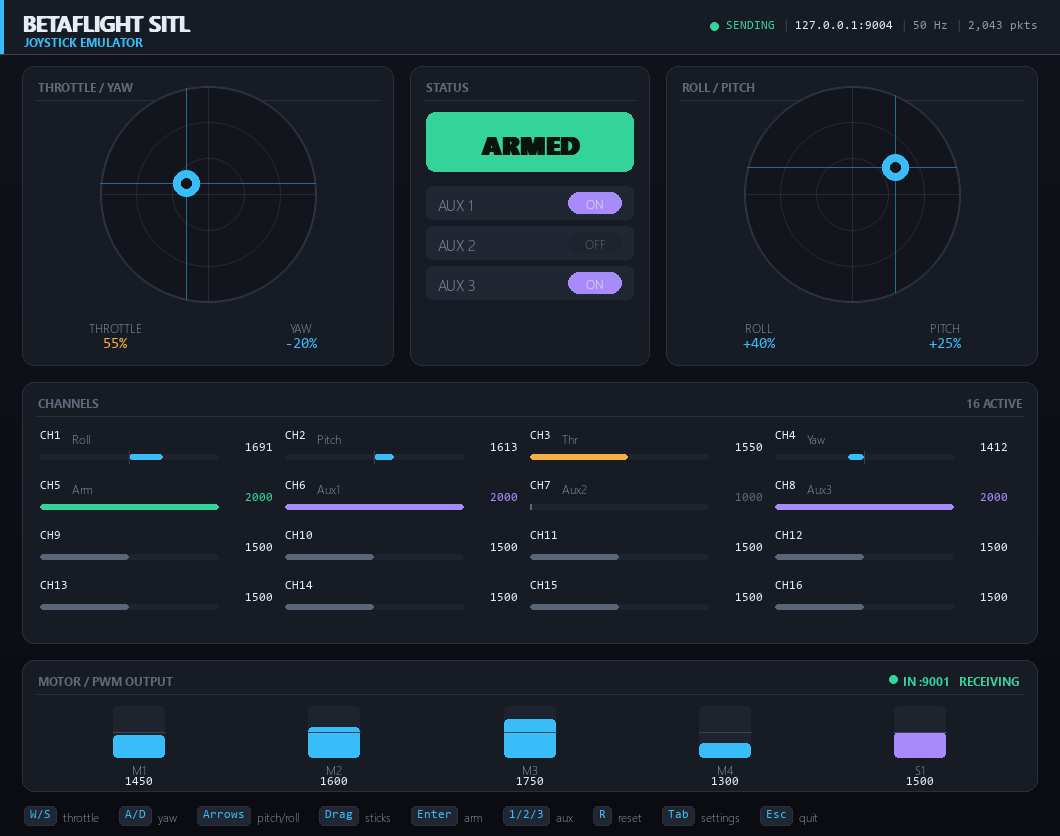
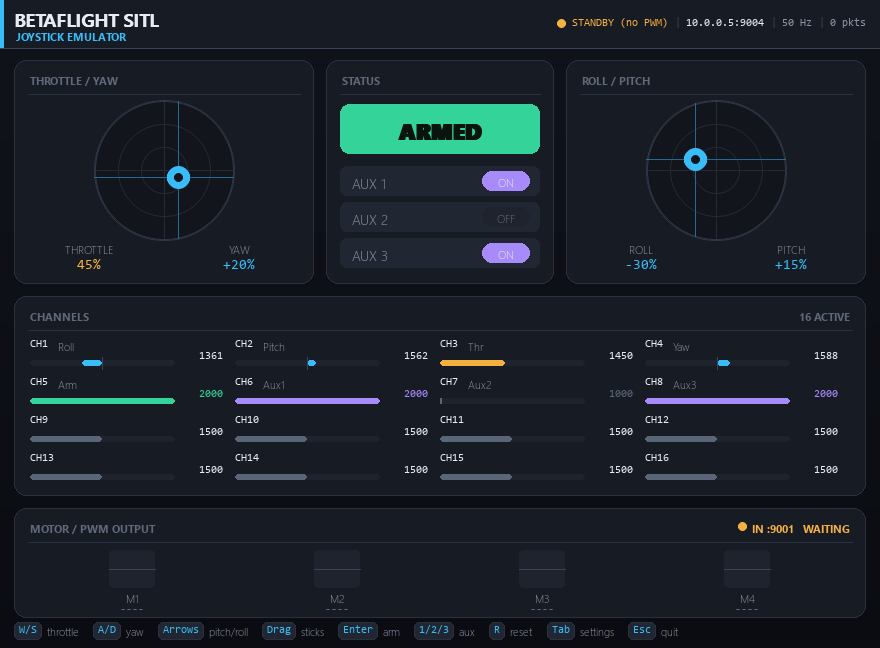
Shrink window/UI and fix settings save
- Compact 880x648 layout (was 1060x836) with re-tuned cards, gimbals,
  channels, motor bars, header, legend and settings panel
- Fix Ctrl+S save being swallowed by the 's' move-down binding; panel
  navigation now uses arrow keys, Ctrl+S saves, D resets defaults
- Rewrite config.json on load so every setting is persisted and older
  configs are migrated with newly added keys (values preserved)

diff --git a/joystick_emulator.py b/joystick_emulator.py
@@ -33,7 +33,7 @@ from pygame import gfxdraw
 CONFIG_FILENAME = "config.json"
 NUM_PACKET_CHANNELS = 16  # Betaflight SITL always reads a fixed 16-channel struct.
 
-WINDOW_W, WINDOW_H = 1060, 836
+WINDOW_W, WINDOW_H = 880, 648
 FPS_RENDER_CAP = 120  # Rendering may run faster than the RC send rate.
 
 # ---- Palette (modern dark "avionics" theme) ----
@@ -153,8 +153,9 @@ class Settings:
             except (OSError, ValueError, json.JSONDecodeError) as exc:
                 print(f"[settings] could not read {path}: {exc}; using defaults")
         s.clamp_all()
-        if not os.path.isfile(path):
-            s.save(path)
+        # Always (re)write the file so it contains every current setting,
+        # migrating older configs that predate newly added fields.
+        s.save(path)
         return s
 
     def save(self, path: str) -> bool:
@@ -607,14 +608,20 @@ class SettingsPanel:
         if event.type != pygame.KEYDOWN:
             return
 
-        if event.key in (pygame.K_UP, pygame.K_w):
+        ctrl = bool(mods & pygame.KMOD_CTRL)
+        # Check Ctrl+S first so it isn't swallowed by other bindings.
+        if ctrl and event.key == pygame.K_s:
+            self._save()
+            return
+
+        if event.key == pygame.K_UP:
             self._move(-1)
-        elif event.key in (pygame.K_DOWN, pygame.K_s):
+        elif event.key == pygame.K_DOWN:
             self._move(1)
-        elif event.key in (pygame.K_LEFT, pygame.K_a):
+        elif event.key == pygame.K_LEFT:
             step = field_obj.big_step if coarse else field_obj.step
             self._adjust(field_obj, -step)
-        elif event.key in (pygame.K_RIGHT, pygame.K_d):
+        elif event.key == pygame.K_RIGHT:
             step = field_obj.big_step if coarse else field_obj.step
             self._adjust(field_obj, step)
         elif event.key == pygame.K_RETURN:
@@ -623,14 +630,7 @@ class SettingsPanel:
             else:
                 self.editing = True
                 self.edit_buffer = str(getattr(self.settings, field_obj.attr))
-        elif event.key == pygame.K_s and (mods & pygame.KMOD_CTRL):
-            self._save()
-
-    def handle_command_key(self, key: int) -> None:
-        """Keys handled while the panel is open but not editing (S/D)."""
-        if self.editing:
-            return
-        if key == pygame.K_d:
+        elif event.key == pygame.K_d:
             self._reset_defaults()
 
     def _save(self) -> None:
@@ -674,35 +674,40 @@ class App:
         self.clock = pygame.time.Clock()
 
         # Typography: UI font for labels, mono font for numeric readouts.
-        self.font_title = _sysfont(["Segoe UI Semibold", "Segoe UI", "Arial"], 22, bold=True)
-        self.font_h = _sysfont(["Segoe UI", "Arial"], 12, bold=True)
-        self.font = _sysfont(["Segoe UI", "Arial"], 15)
-        self.font_small = _sysfont(["Segoe UI", "Arial"], 12)
-        self.font_mono = _sysfont(["Consolas", "Courier New"], 15)
-        self.font_mono_sm = _sysfont(["Consolas", "Courier New"], 12)
-        self.font_arm = _sysfont(["Segoe UI Black", "Segoe UI", "Arial"], 26, bold=True)
+        self.font_title = _sysfont(["Segoe UI Semibold", "Segoe UI", "Arial"], 19, bold=True)
+        self.font_h = _sysfont(["Segoe UI", "Arial"], 11, bold=True)
+        self.font = _sysfont(["Segoe UI", "Arial"], 14)
+        self.font_small = _sysfont(["Segoe UI", "Arial"], 11)
+        self.font_mono = _sysfont(["Consolas", "Courier New"], 14)
+        self.font_mono_sm = _sysfont(["Consolas", "Courier New"], 11)
+        self.font_arm = _sysfont(["Segoe UI Black", "Segoe UI", "Arial"], 22, bold=True)
 
         # Cached vertical-gradient background.
         self.bg = _make_gradient(WINDOW_W, WINDOW_H, COL_BG_TOP, COL_BG_BOT)
 
         # ---- Layout geometry ----
-        margin = 22
-        top = 66
-        card_w = 372
-        card_h = 300
+        margin = 14
+        gap = 12
+        top = 60
+        card_w = 300
+        card_h = 224
         self.left_card = pygame.Rect(margin, top, card_w, card_h)
         self.right_card = pygame.Rect(WINDOW_W - margin - card_w, top, card_w, card_h)
         self.center_card = pygame.Rect(
-            self.left_card.right + 16,
+            self.left_card.right + gap,
             top,
-            self.right_card.left - self.left_card.right - 32,
+            self.right_card.left - self.left_card.right - 2 * gap,
             card_h,
         )
-        self.chan_card = pygame.Rect(margin, top + card_h + 16, WINDOW_W - 2 * margin, 262)
-        self.motor_card = pygame.Rect(margin, self.chan_card.bottom + 16, WINDOW_W - 2 * margin, 132)
+        self.chan_card = pygame.Rect(
+            margin, self.left_card.bottom + gap, WINDOW_W - 2 * margin, 200
+        )
+        self.motor_card = pygame.Rect(
+            margin, self.chan_card.bottom + gap, WINDOW_W - 2 * margin, 110
+        )
 
-        self.gimbal_r = 108
-        gy = self.left_card.y + 128
+        self.gimbal_r = 70
+        gy = self.left_card.y + 110
         self.left_center = (self.left_card.centerx, gy)
         self.right_center = (self.right_card.centerx, gy)
 
@@ -737,14 +742,12 @@ class App:
                 return
 
             if self.panel_open:
-                if event.type == pygame.KEYDOWN and event.key in (
-                    pygame.K_TAB,
-                    pygame.K_ESCAPE,
+                if (
+                    event.type == pygame.KEYDOWN
+                    and not self.panel.editing
+                    and event.key in (pygame.K_TAB, pygame.K_ESCAPE)
                 ):
                     self.panel_open = False
-                    continue
-                if event.type == pygame.KEYDOWN and event.key == pygame.K_d and not self.panel.editing:
-                    self.panel.handle_command_key(event.key)
                     continue
                 self.panel.handle_event(event)
                 continue
@@ -906,12 +909,12 @@ class App:
 
     # ---- header ----
     def _draw_header(self) -> None:
-        bar = pygame.Rect(0, 0, WINDOW_W, 54)
+        bar = pygame.Rect(0, 0, WINDOW_W, 48)
         pygame.draw.rect(self.screen, COL_PANEL, bar)
-        pygame.draw.line(self.screen, COL_BORDER_HI, (0, 54), (WINDOW_W, 54), 1)
-        pygame.draw.rect(self.screen, COL_ACCENT, (0, 0, 4, 54))
-        self._text("BETAFLIGHT SITL", self.font_title, COL_TEXT, (22, 8))
-        self._text("JOYSTICK EMULATOR", self.font_h, COL_ACCENT, (24, 34))
+        pygame.draw.line(self.screen, COL_BORDER_HI, (0, 48), (WINDOW_W, 48), 1)
+        pygame.draw.rect(self.screen, COL_ACCENT, (0, 0, 4, 48))
+        self._text("BETAFLIGHT SITL", self.font_title, COL_TEXT, (14, 6))
+        self._text("JOYSTICK EMULATOR", self.font_h, COL_ACCENT, (16, 29))
 
         if self.sender.last_error is not None:
             status, dot_col = "SEND ERROR", COL_BAD
@@ -927,18 +930,18 @@ class App:
             (f"{self.settings.send_hz} Hz", COL_TEXT_DIM, False),
             (f"{self.sender.packets_sent:,} pkts", COL_TEXT_DIM, False),
         ]
-        x = WINDOW_W - 22
+        x = WINDOW_W - 14
         rev = list(reversed(segments))
         for idx, (text, color, dot) in enumerate(rev):
             r = self.font_mono_sm.render(text, True, color)
             x -= r.get_width()
-            self.screen.blit(r, (x, 20))
+            self.screen.blit(r, (x, 17))
             if dot:
-                _fill_circle(self.screen, x - 12, 26, 4, color)
-                x -= 22
-            if idx < len(rev) - 1:
+                _fill_circle(self.screen, x - 11, 23, 4, color)
                 x -= 20
-                self._text("|", self.font_mono_sm, COL_BORDER_HI, (x + 8, 20))
+            if idx < len(rev) - 1:
+                x -= 18
+                self._text("|", self.font_mono_sm, COL_BORDER_HI, (x + 7, 17))
 
     # ---- gimbals ----
     def _draw_gimbal_card(self, card: pygame.Rect, center, side: str) -> None:
@@ -951,7 +954,7 @@ class App:
         self._draw_gimbal(center, nx, ny, side)
 
         # Readout chips beneath the gimbal.
-        base_y = card.bottom - 46
+        base_y = card.bottom - 42
         q1 = card.x + card.w // 4
         q2 = card.x + 3 * card.w // 4
         if side == "left":
@@ -987,36 +990,36 @@ class App:
 
         grabbed = self.dragging == side
         kcol = COL_KNOB_GRAB if grabbed else COL_KNOB
-        _fill_circle(self.screen, kx, ky, 13, kcol)
-        _fill_circle(self.screen, kx, ky, 5, COL_GIMBAL)
+        _fill_circle(self.screen, kx, ky, 11, kcol)
+        _fill_circle(self.screen, kx, ky, 4, COL_GIMBAL)
 
     # ---- status / switches ----
     def _draw_status_card(self, card: pygame.Rect) -> None:
         self._panel(card, "Status")
-        inner_x = card.x + 16
-        inner_w = card.w - 32
+        inner_x = card.x + 14
+        inner_w = card.w - 28
 
         armed = self.state.armed
-        banner = pygame.Rect(inner_x, card.y + 46, inner_w, 60)
+        banner = pygame.Rect(inner_x, card.y + 44, inner_w, 50)
         if armed:
             pygame.draw.rect(self.screen, COL_GOOD, banner, border_radius=9)
-            self._text("ARMED", self.font_arm, (10, 20, 15), (banner.centerx, banner.y + 14), align="center")
+            self._text("ARMED", self.font_arm, (10, 20, 15), (banner.centerx, banner.y + 12), align="center")
         else:
             pygame.draw.rect(self.screen, COL_PANEL_LIGHT, banner, border_radius=9)
             pygame.draw.rect(self.screen, COL_BAD, banner, width=2, border_radius=9)
-            self._text("DISARMED", self.font_arm, COL_BAD, (banner.centerx, banner.y + 14), align="center")
+            self._text("DISARMED", self.font_arm, COL_BAD, (banner.centerx, banner.y + 12), align="center")
 
         # AUX toggle rows
-        ry = banner.bottom + 14
+        ry = banner.bottom + 12
         for i, on in enumerate(self.state.aux):
-            row = pygame.Rect(inner_x, ry, inner_w, 34)
+            row = pygame.Rect(inner_x, ry, inner_w, 30)
             pygame.draw.rect(self.screen, COL_PANEL_LIGHT, row, border_radius=7)
-            self._text(f"AUX {i + 1}", self.font, COL_TEXT_DIM, (row.x + 12, row.y + 8))
-            pill = pygame.Rect(row.right - 66, row.y + 6, 54, 22)
-            pygame.draw.rect(self.screen, COL_AUX if on else COL_TRACK, pill, border_radius=11)
+            self._text(f"AUX {i + 1}", self.font, COL_TEXT_DIM, (row.x + 12, row.y + 7))
+            pill = pygame.Rect(row.right - 58, row.y + 5, 48, 20)
+            pygame.draw.rect(self.screen, COL_AUX if on else COL_TRACK, pill, border_radius=10)
             self._text("ON" if on else "OFF", self.font_small,
                        COL_TEXT if on else COL_TEXT_FAINT, (pill.centerx, pill.y + 4), align="center")
-            ry += 40
+            ry += 36
 
     # ---- channels ----
     def _channel_meta(self):
@@ -1049,11 +1052,11 @@ class App:
         self._text(f"{count} ACTIVE", self.font_h, COL_TEXT_FAINT, (card.right - 16, card.y + 13), align="right")
 
         cols = 4
-        inner_x = card.x + 18
-        inner_w = card.w - 36
+        inner_x = card.x + 16
+        inner_w = card.w - 32
         col_w = inner_w // cols
-        top = card.y + 48
-        row_h = 50
+        top = card.y + 42
+        row_h = 38
         mid = self.settings.pwm_mid
 
         for i in range(count):
@@ -1077,8 +1080,8 @@ class App:
                 self._text(name, self.font_small, COL_TEXT_DIM, (colx + lw + 4, cy + 1))
 
             track_x = colx
-            track_w = col_w - 66
-            track_y = cy + 24
+            track_w = col_w - 60
+            track_y = cy + 22
             track_h = 6
             pygame.draw.rect(self.screen, COL_TRACK, (track_x, track_y, track_w, track_h), border_radius=3)
 
@@ -1111,8 +1114,8 @@ class App:
         else:
             status, scol = "WAITING", COL_WARN
         header = f"IN :{self.settings.pwm_in_port}   {status}"
-        hx = self._text(header, self.font_h, scol, (card.right - 18, card.y + 13), align="right").x
-        _fill_circle(self.screen, hx - 10, card.y + 19, 4, scol)
+        hx = self._text(header, self.font_h, scol, (card.right - 16, card.y + 13), align="right").x
+        _fill_circle(self.screen, hx - 10, card.y + 18, 4, scol)
 
         mc = rx.motor_count if rx.motor_count > 0 else 4
         total = mc
@@ -1121,12 +1124,12 @@ class App:
                 total = i + 1
         total = max(1, min(total, 16))
 
-        area_top = card.y + 46
-        area_bottom = card.bottom - 34
+        area_top = card.y + 42
+        area_bottom = card.bottom - 30
         bar_h = area_bottom - area_top
-        slot = (card.w - 40) / total
-        bar_w = int(min(52, slot - 16))
-        base_x = card.x + 20
+        slot = (card.w - 32) / total
+        bar_w = int(min(46, slot - 14))
+        base_x = card.x + 16
 
         for i in range(total):
             cx = base_x + slot * i + slot / 2
@@ -1144,10 +1147,10 @@ class App:
             pygame.draw.line(self.screen, COL_BORDER_HI, (bx, midy), (bx + bar_w, midy), 1)
 
             label = f"M{i + 1}" if is_motor else f"S{i - mc + 1}"
-            self._text(label, self.font_small, COL_TEXT_DIM, (cx, card.bottom - 30), align="center")
+            self._text(label, self.font_small, COL_TEXT_DIM, (cx, card.bottom - 27), align="center")
             vtxt = str(int(round(v))) if v > 0 else "----"
             vcol = COL_TEXT if v > 0 else COL_TEXT_FAINT
-            self._text(vtxt, self.font_mono_sm, vcol, (cx, card.bottom - 16), align="center")
+            self._text(vtxt, self.font_mono_sm, vcol, (cx, card.bottom - 15), align="center")
 
     def _draw_legend(self) -> None:
         items = [
@@ -1155,18 +1158,18 @@ class App:
             ("Drag", "sticks"), ("Enter", "arm"), ("1/2/3", "aux"),
             ("R", "reset"), ("Tab", "settings"), ("Esc", "quit"),
         ]
-        y = WINDOW_H - 30
-        x = 24
+        y = WINDOW_H - 26
+        x = 14
         for key, desc in items:
             kr = self.font_mono_sm.render(key, True, COL_ACCENT)
-            pad = 6
-            box = pygame.Rect(x, y, kr.get_width() + pad * 2, 20)
+            pad = 5
+            box = pygame.Rect(x, y, kr.get_width() + pad * 2, 18)
             pygame.draw.rect(self.screen, COL_PANEL_LIGHT, box, border_radius=5)
             pygame.draw.rect(self.screen, COL_BORDER, box, width=1, border_radius=5)
-            self.screen.blit(kr, (x + pad, y + 3))
-            x += box.width + 6
-            dr = self._text(desc, self.font_small, COL_TEXT_DIM, (x, y + 3))
-            x += dr.width + 20
+            self.screen.blit(kr, (x + pad, y + 2))
+            x += box.width + 5
+            dr = self._text(desc, self.font_small, COL_TEXT_DIM, (x, y + 2))
+            x += dr.width + 14
 
     # ------------------------------------------------------------------
     def _draw_panel(self) -> None:
@@ -1174,25 +1177,25 @@ class App:
         overlay.fill((0, 0, 0, 190))
         self.screen.blit(overlay, (0, 0))
 
-        pw, ph = 580, 632
+        pw, ph = 560, 604
         px = (WINDOW_W - pw) // 2
         py = (WINDOW_H - ph) // 2
         pygame.draw.rect(self.screen, COL_PANEL, (px, py, pw, ph), border_radius=12)
         pygame.draw.rect(self.screen, COL_BORDER_HI, (px, py, pw, ph), 1, border_radius=12)
         pygame.draw.rect(self.screen, COL_ACCENT, (px, py, pw, 3), border_top_left_radius=12, border_top_right_radius=12)
 
-        self._text("SETTINGS", self.font_title, COL_TEXT, (px + 20, py + 14))
+        self._text("SETTINGS", self.font_title, COL_TEXT, (px + 18, py + 12))
         hint_lines = [
             "Up/Down select   Left/Right adjust (Shift=coarse)   Enter edit",
             "Ctrl+S save   D defaults   Tab/Esc close",
         ]
-        hy = py + 46
+        hy = py + 40
         for line in hint_lines:
-            self.screen.blit(self.font_small.render(line, True, COL_TEXT_DIM), (px + 20, hy))
-            hy += 16
+            self.screen.blit(self.font_small.render(line, True, COL_TEXT_DIM), (px + 18, hy))
+            hy += 15
 
-        y = py + 84
-        row_h = 22
+        y = py + 76
+        row_h = 20
         panel = self.panel
         for i, f in enumerate(panel.fields):
             if f.kind == "header":

diff --git a/README.md b/README.md
@@ -163,8 +163,11 @@ effect on the next frame.
 ## Configuration file
 
 Settings are stored in `config.json` next to the script (created on first run).
-It is per-machine and git-ignored, so each environment keeps its own values.
-Delete it to return to defaults.
+Every setting is written to the file, and on each launch the file is rewritten to
+include any newly added options (older configs are migrated automatically while
+preserving your existing values). Press `Ctrl`+`S` in the settings panel to save
+changes back to it. It is per-machine and git-ignored, so each environment keeps
+its own values. Delete it to return to defaults.
 
 ## Using with Betaflight SITL
 
